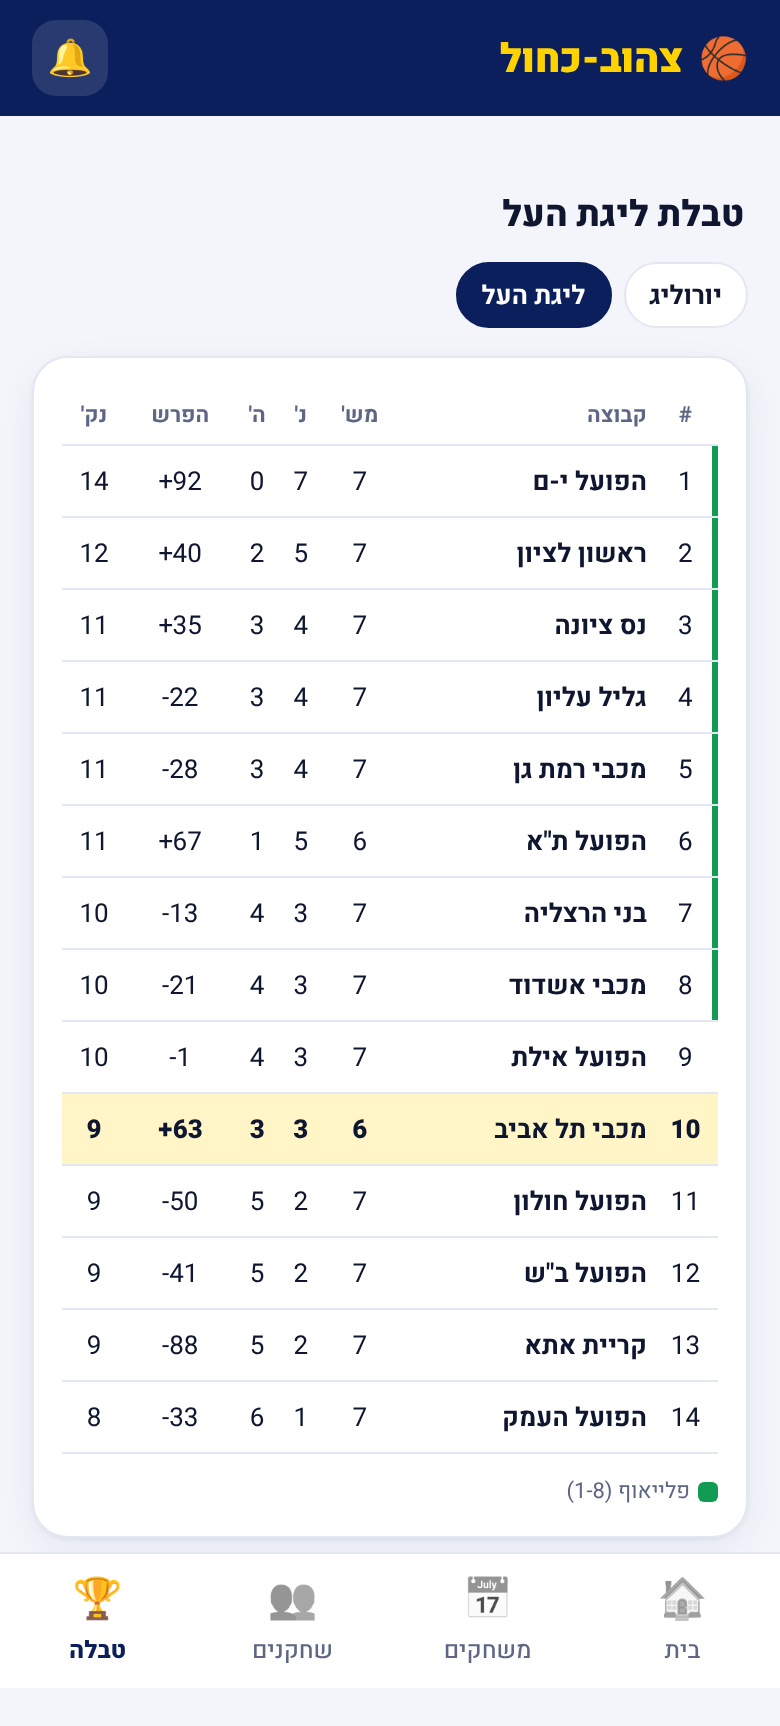
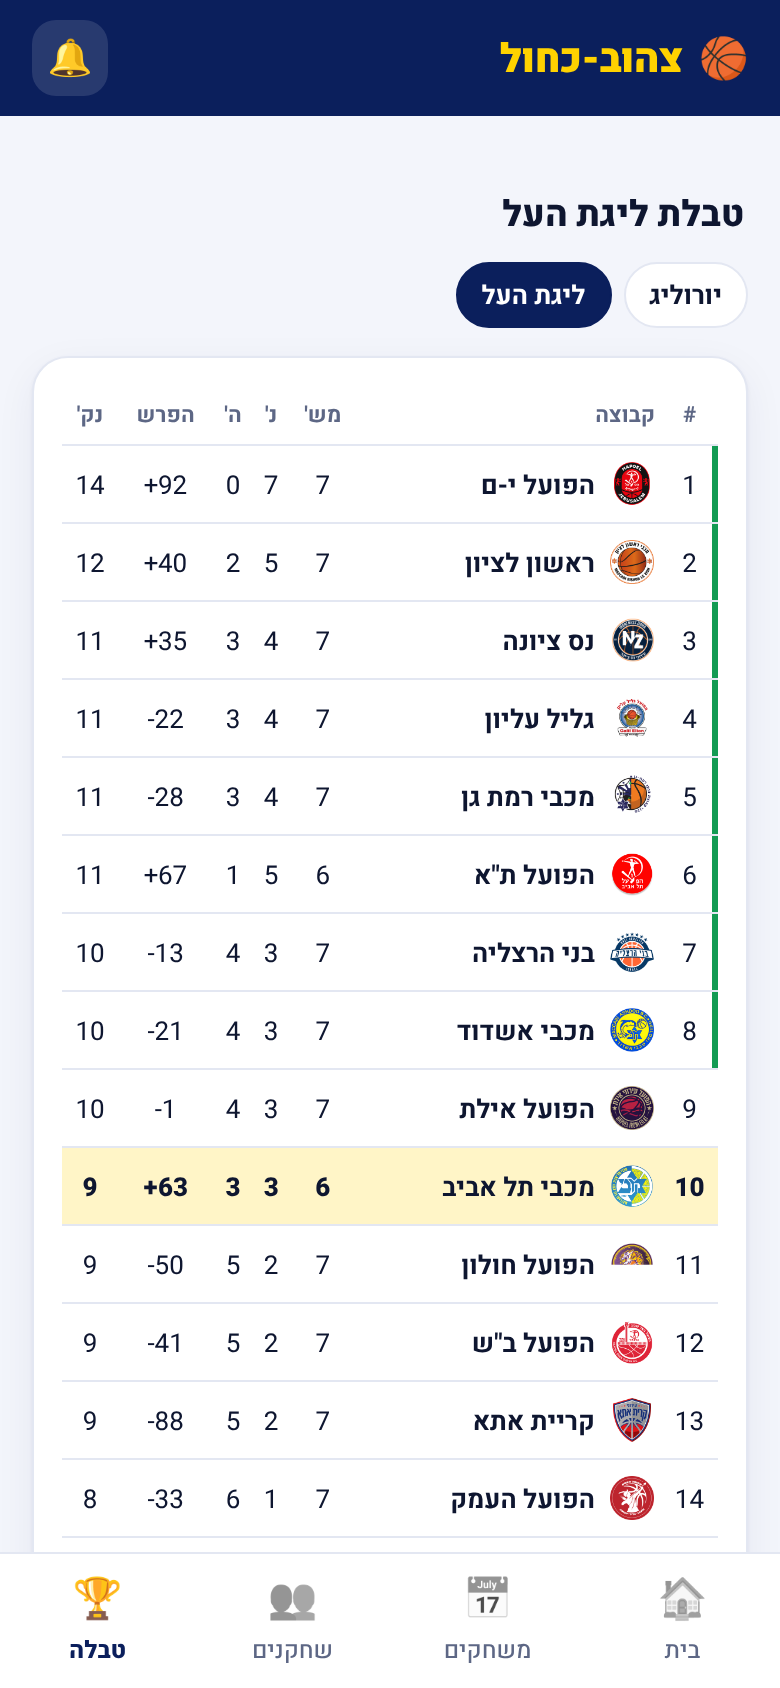
Show player photos and team crests for the Israeli league
Claude-Session: https://claude.ai/code/session_0164VpZNtqGUf4gZeQFmLt4h

diff --git a/src/server.js b/src/server.js
@@ -133,9 +133,23 @@ function combinedPlayers(elPlayers, ilPlayers) {
   return out;
 }
 
+// שחקני ליגת העל עם התמונה מהסגל באתר המנהלת
+function leaguePlayers() {
+  const ilS = ilState();
+  const photo = new Map((ilS.roster || []).map((r) => [r.playerId, r.photo]));
+  return (ilS.players || []).map((p) => ({ ...p, headshot: photo.get(p.playerId) || null }));
+}
+
+// סמלי הקבוצות בליגת העל: מתוך לוח המשחקים של מכבי (מופיעות בו כל הקבוצות)
+function leagueCrests() {
+  const m = new Map();
+  for (const g of ilState().games || []) for (const t of [g.home, g.away]) if (t.teamId && t.crest && !m.has(t.teamId)) m.set(t.teamId, t.crest);
+  return m;
+}
+
 app.get('/api/players', (req, res) => {
   const { players } = computed();
-  const ilS = ilState();
+  const ilS = { ...ilState(), players: leaguePlayers() };
   res.json({
     euroleague: players,
     league: ilS.players || [],
@@ -159,7 +173,7 @@ app.get('/api/standings', (req, res) => {
   const ilS = ilState();
   res.json({
     euroleague: { round: s.standingsRound, teams: s.standings.map((t) => ({ ...t, nameHe: teamHe(t.code, t.name), us: t.code === TEAM })) },
-    league: { teams: (ilS.table || []).map((t) => ({ ...t, nameHe: /מכבי ת"א/.test(t.name) ? 'מכבי תל אביב' : t.name, us: /מכבי ת"א/.test(t.name) })) },
+    league: { teams: (ilS.table || []).map((t) => ({ ...t, crest: t.crest || leagueCrests().get(t.teamId) || null, nameHe: /מכבי ת"א/.test(t.name) ? 'מכבי תל אביב' : t.name, us: /מכבי ת"א/.test(t.name) })) },
   });
 });
 
